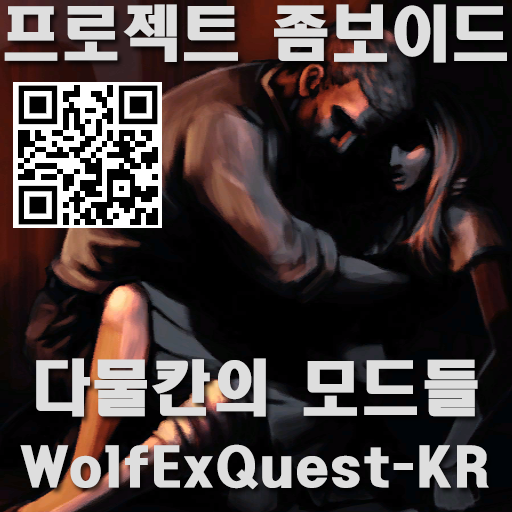
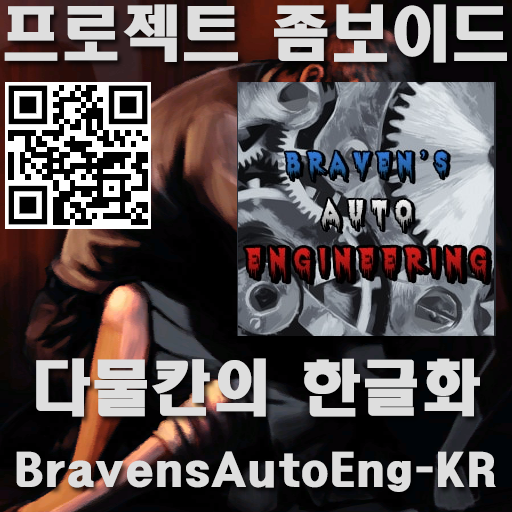
모드 추가

diff --git a/Readme.md b/Readme.md
@@ -1,24 +1,25 @@
-# 다물칸의 프로젝트 좀보이드 모드
+# [다물칸의 프로젝트 좀보이드 모드 한글화 작전](https://steamcommunity.com/sharedfiles/filedetails/?id=3008693863)
 
 * 한글화 위주로 진행
 * 기존 한글화 되어 있지 않거나 업데이트 되지 않아 부분영문으로 나오는 모드 위주로 진행
-* 대표 스팀URL: https://steamcommunity.com/sharedfiles/filedetails/?id=3008693863
+* Vanilla : 기본게임 한글화 및 폰트, 라디오 한글화 통합모드
+  * 라디오 한글화가 제대로 안되는 것 같음. (2023-07-31)
 
 ## 히스토리 잡설
 
 * (2023.07.30) 모드를 통합해서 넣었는데 충돌나는 것 같다. 108개 모드를 넣었기 때문에 어디서 오류나는지 몰라 아무래도 다 조각조각 내서 진행해야 할듯함. 그동안 게임도 못하고 4일동안 했는데 도루묵 T_T
 
-## 모드설명
+## 모드모음
 
-* Vanilla : 모드 외에 기본게임 한글화 및 폰트, 라디오 한글화
-  * 라디오 한글화가 제대로 안되는 것 같음.
+### 지도관련 한글화
+
 * Maps Title : 처음 스폰지역 고를 때 지도제목과 설명을 한글화하는 모드
-* Maps Trelrai : 트렐라이 지도모드를 한글화하는 모드
-* Mods Translate Korean : 108개 모드 통합한글화 모드
+* Maps Trelrai : 트렐라이 지도모드를 한글화하는 모드 
 
-## 별도모드 한글화 배포
+### 일반모드
 
-* WolfExtractionQuest : 탈출 퀘스트 한글화 모드
-  * https://steamcommunity.com/sharedfiles/filedetails/?id=3008490703
-* Braven's Auto Engineering : 자동차 공학; 수리/폐기 등 (배포예정)
-* Save out station! : 기상청 관련 퀘스트 (배포예정)
+* [Braven Auto Engineering](https://steamcommunity.com/sharedfiles/filedetails/?id=2853596558): 자동차 공학; 수리/폐기 등 (배포예정)
+* [Save Our Station!](https://steamcommunity.com/sharedfiles/filedetails/?id=2398274461): 기상청 관련 퀘스트 (배포예정)
+* [Wolf Extraction Quest](https://steamcommunity.com/sharedfiles/filedetails/?id=2987772693): 엔딩(탈출) 퀘스트 (배포) 
+* [DIY Vehicle Parts for KI5](https://steamcommunity.com/sharedfiles/filedetails/?id=2996454087): KI5계열 차량 부품 수제작 (진행중)
+  * 레시피 쪽 덜 됐음.
